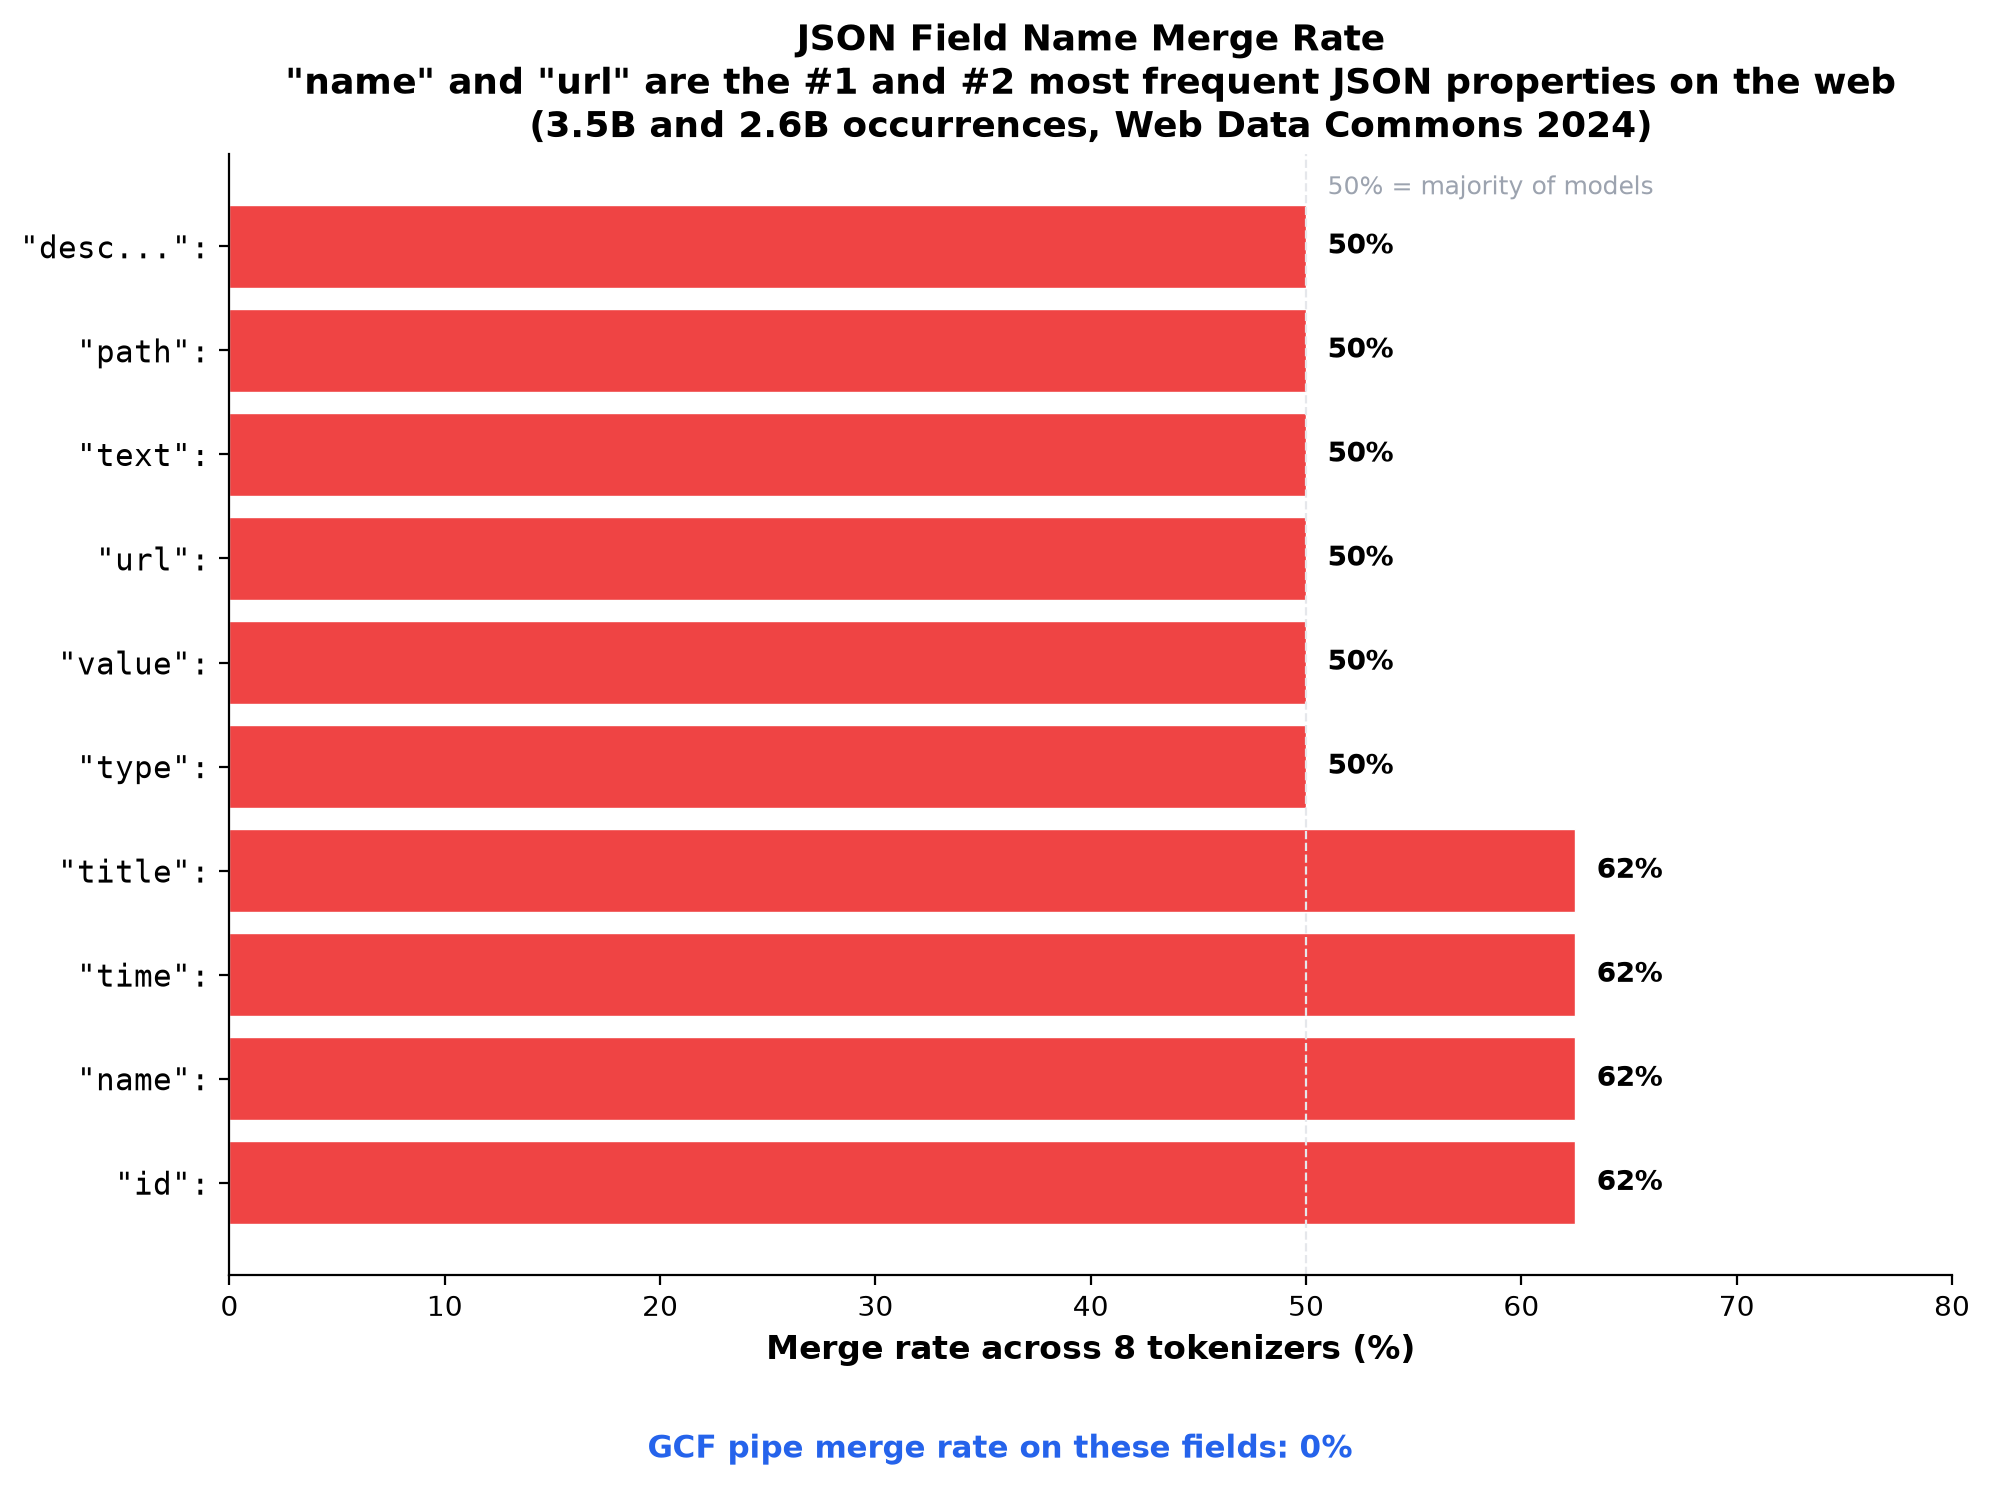
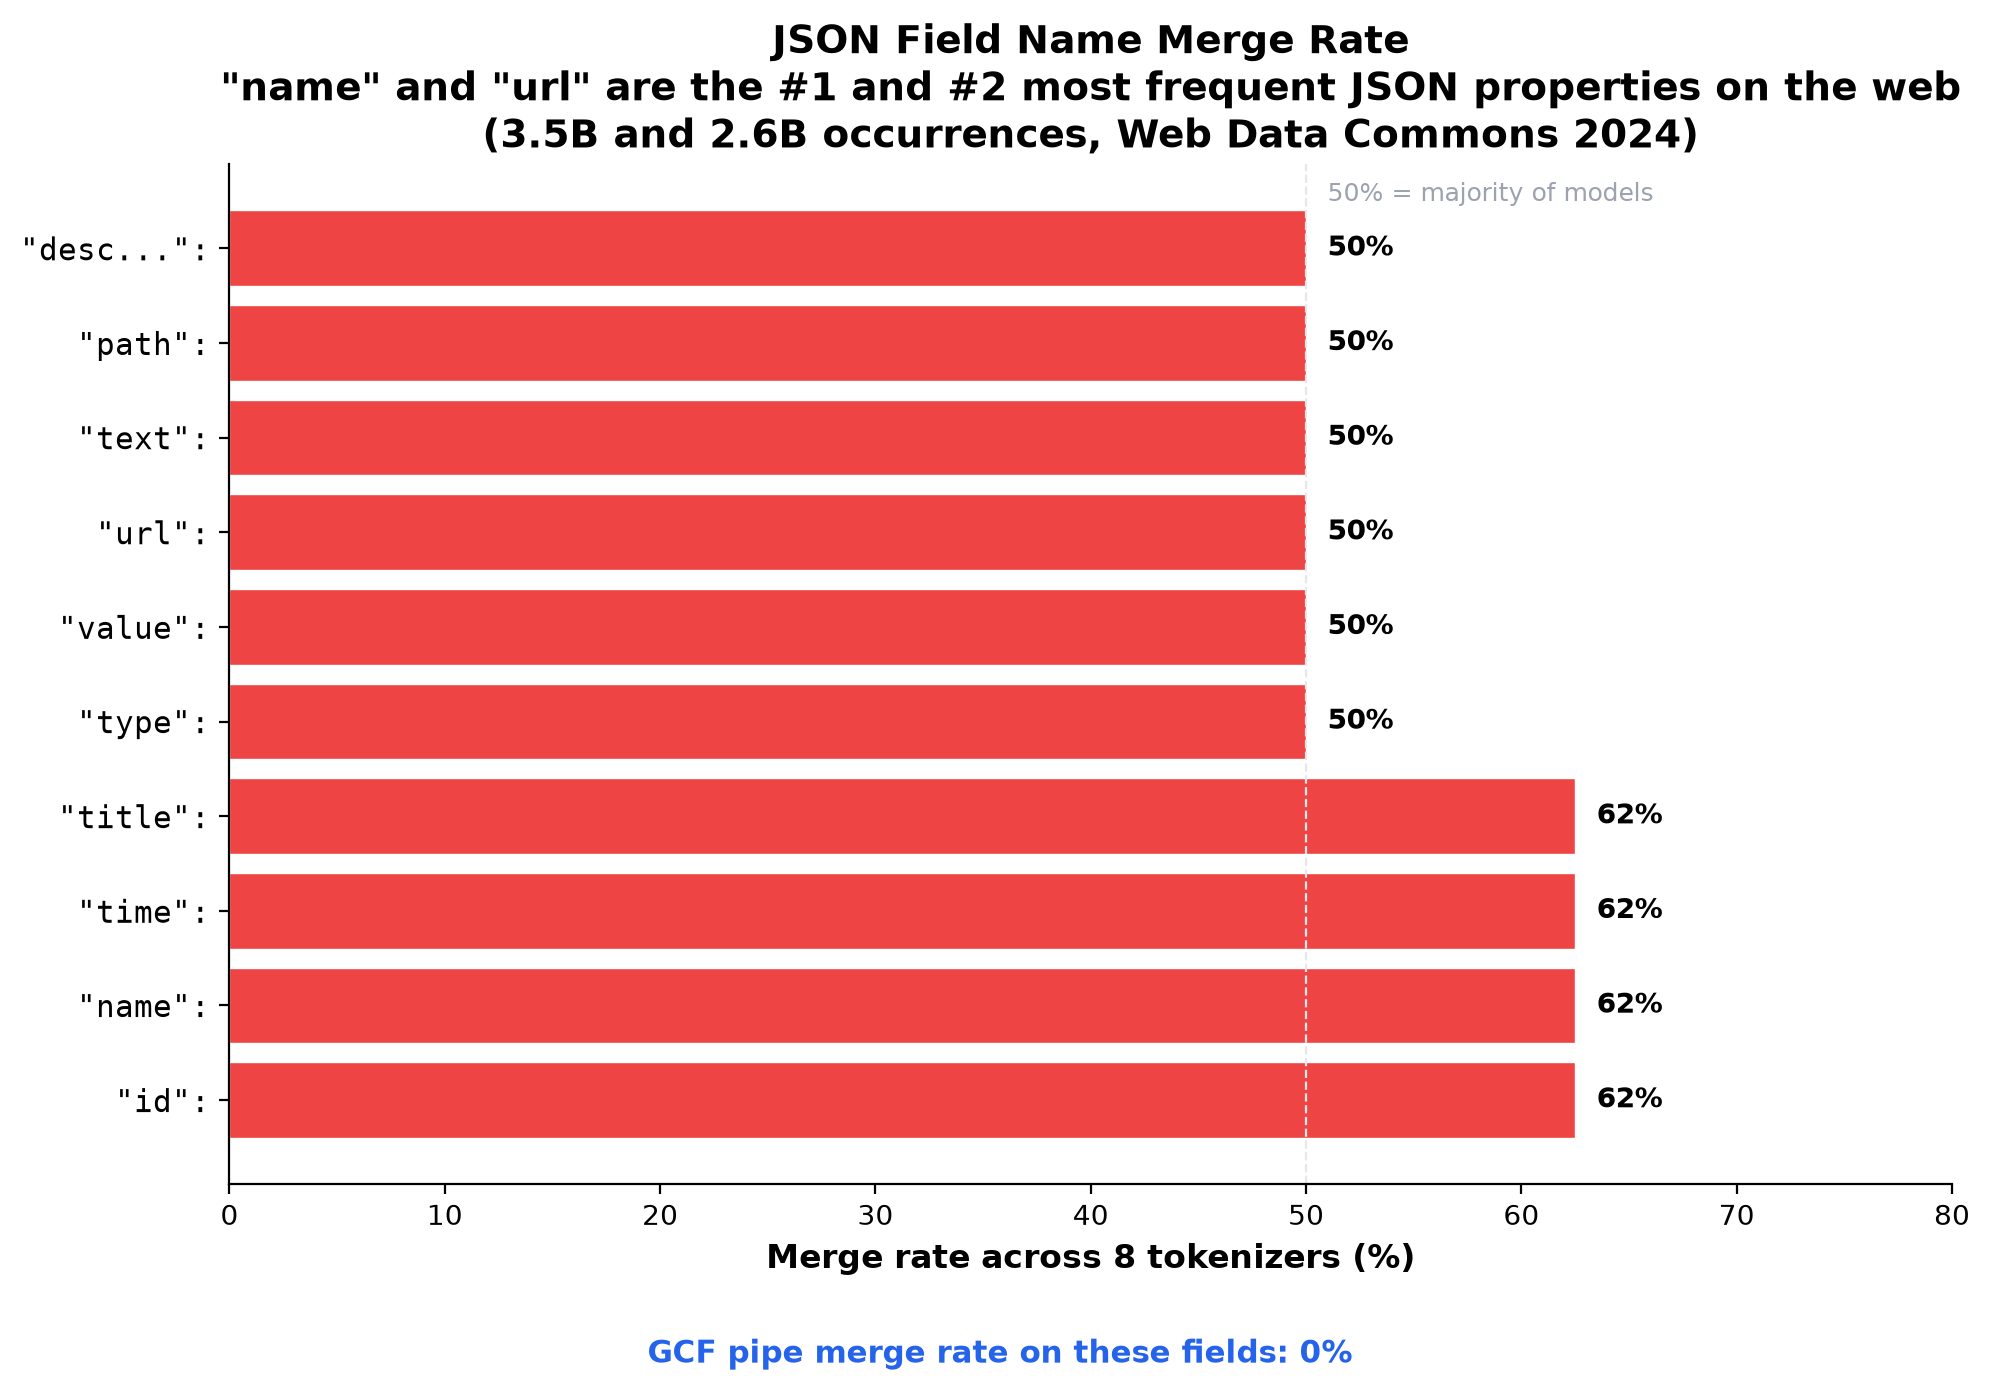
fix: regenerate all charts with current data, fix whitepaper image paths

diff --git a/docs/whitepaper.md b/docs/whitepaper.md
@@ -440,15 +440,15 @@ GCF, TOON, and JSON produce qualitatively different failure modes. The [tokenize
 
 On two separate runs, Claude Opus responded to a JSON counting question by manually enumerating symbols one by one (143 lines on run 1, 119 on run 2), burning output tokens on a chain-of-thought enumeration and still getting the wrong answer. GCF answers the same question from a 3-character header: `[167]`.
 
-![Error Magnitude by Format](public/charts/error-magnitude.png)
+![Error Magnitude by Format](/charts/error-magnitude.png)
 
-![Failure Types by Model Tier](public/charts/failure-types.png)
+![Failure Types by Model Tier](/charts/failure-types.png)
 
-![Failure Type Distribution](public/charts/failure-types-pie.png)
+![Failure Type Distribution](/charts/failure-types-pie.png)
 
-![Comprehension Score Variance](public/charts/comprehension-variance.png)
+![Comprehension Score Variance](/charts/comprehension-variance.png)
 
-![GCF Advantage Grows on Weaker Models](public/charts/advantage-by-tier.png)
+![GCF Advantage Grows on Weaker Models](/charts/advantage-by-tier.png)
 
 #### Comprehension methodology
 
@@ -585,7 +585,7 @@ GCF is bidirectional: LLMs can produce it, not just consume it. 28 generation ru
 
 **GCF 5/5 on every frontier model. TOON fails on 7 of 9 models.**
 
-![Generation Validity by Model](public/charts/generation-validity.png)
+![Generation Validity by Model](/charts/generation-validity.png)
 
 #### Why TOON fails generation
 
@@ -595,9 +595,9 @@ This is a structural design flaw in flat tabular formats. Any time a column enco
 
 GCF expresses categories through section placement (`## targets`, `## related`). The model writes the symbol in the section matching the label. No integer mapping required. The format aligns with how LLMs naturally express grouped data.
 
-![The Distance Label Problem](public/charts/distance-label-problem.png)
+![The Distance Label Problem](/charts/distance-label-problem.png)
 
-![TOON Generation Heatmap](public/charts/toon-heatmap.png)
+![TOON Generation Heatmap](/charts/toon-heatmap.png)
 
 When TOON is given pre-encoded integers (hand-holding the model through the mapping), performance improves on some models but remains inconsistent. Even in the best case, GCF output is 28% smaller.
 
@@ -609,7 +609,7 @@ When TOON is given pre-encoded integers (hand-holding the model through the mapp
 | TOON | 8,937 B | 45% fewer |
 | JSON | 16,121 B | baseline |
 
-![Output Size at Scale](public/charts/output-cost-at-scale.png)
+![Output Size at Scale](/charts/output-cost-at-scale.png)
 
 **Implications.** GCF generation enables: (1) agent-to-agent communication at 63% fewer tokens per handoff, (2) structured output mode as an alternative to JSON mode, and (3) system prompt encoding where context packs are encoded as GCF to maximize context window utilization.
 